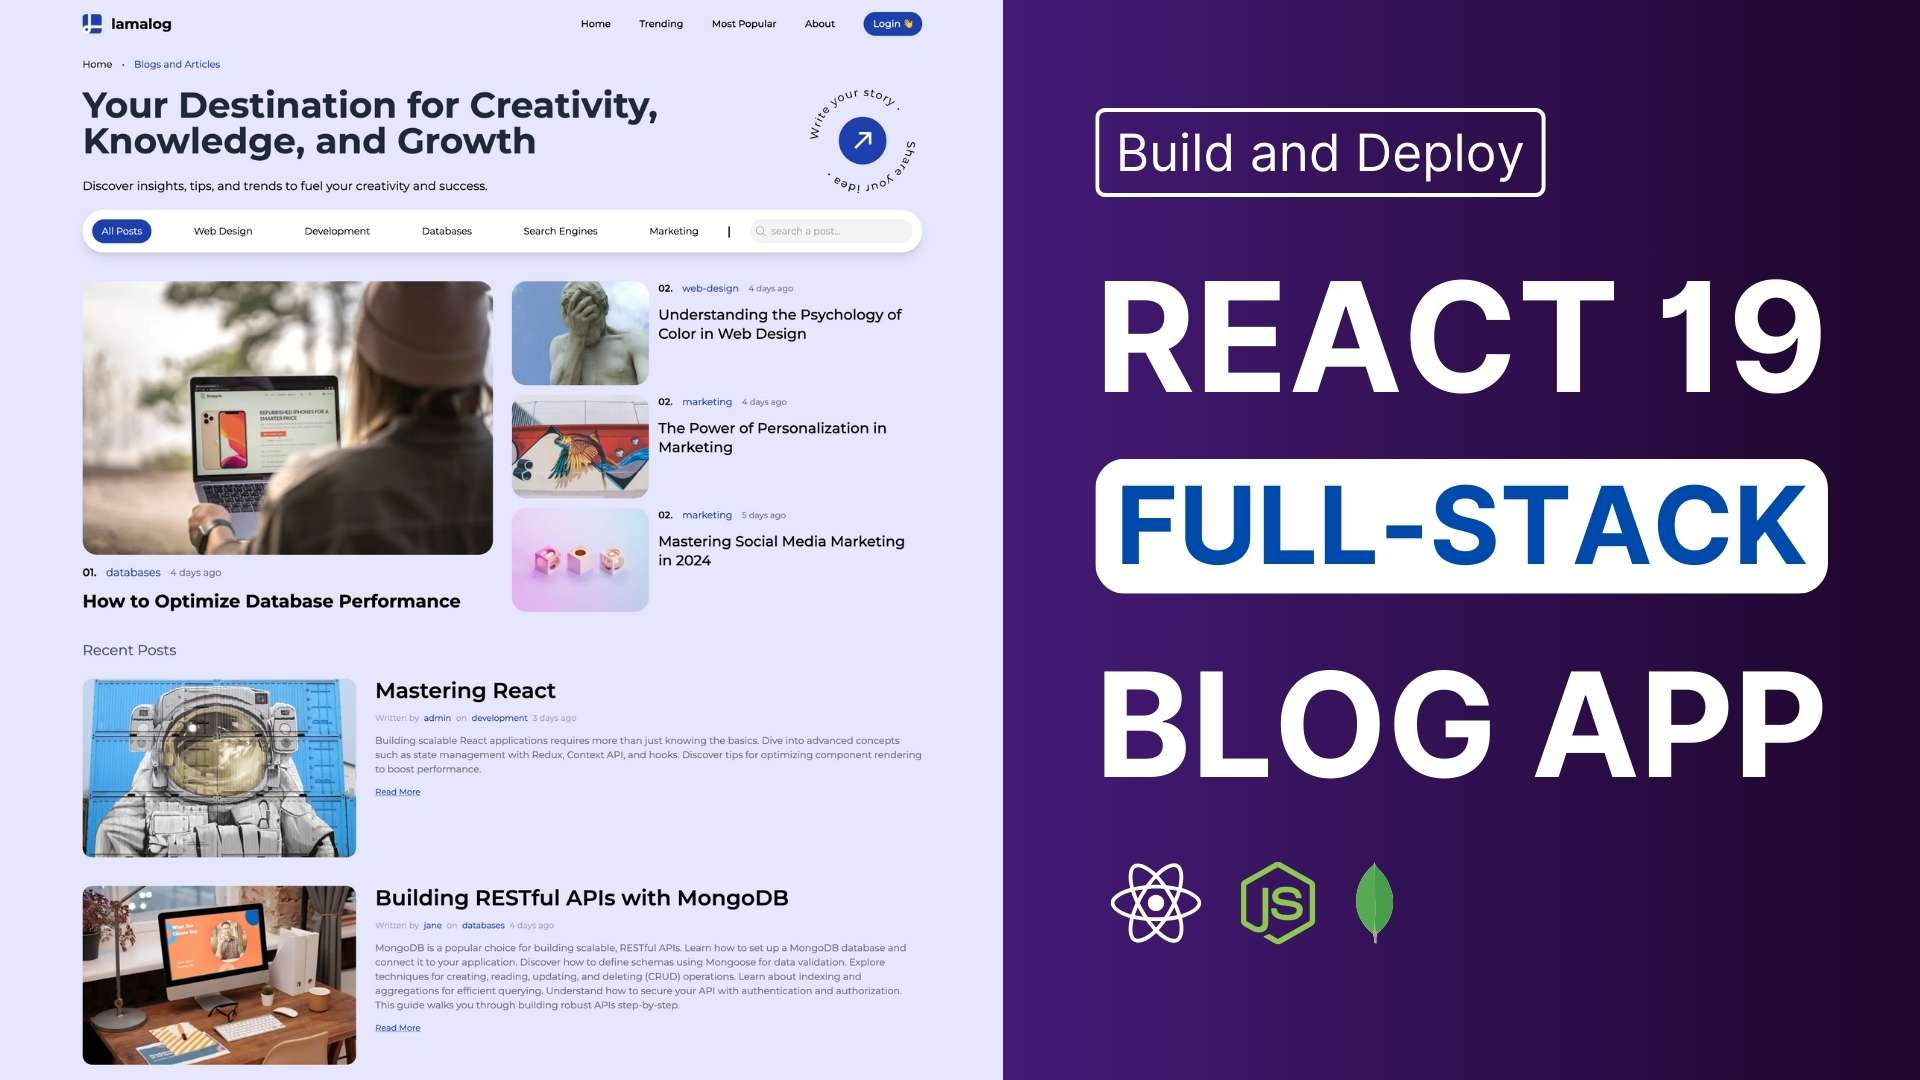
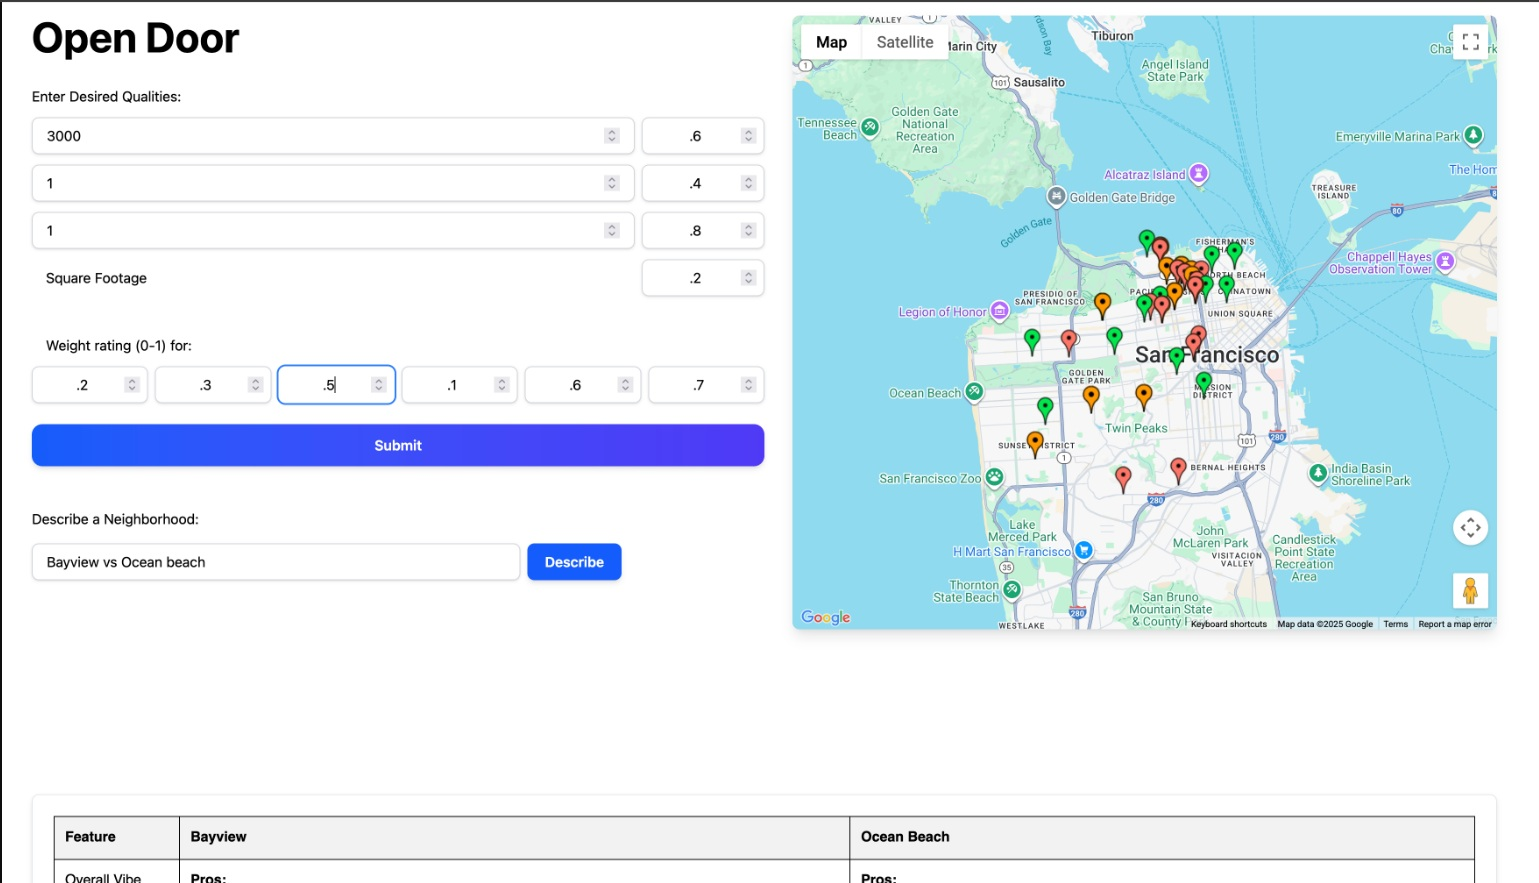
adding images from past projects

diff --git a/src/components/home/Home.jsx b/src/components/home/Home.jsx
@@ -1,5 +1,5 @@
 import {Canvas} from "@react-three/fiber"
-import "./hero.css";
+import "./home.css";
 import Speech from "./Speech"
 import {motion} from "motion/react"
 import Shape from "./Shape";
@@ -42,8 +42,8 @@ const followVariants = {
     },
 };
 
-const Hero = () => {
-    return ( <div className ="hero">
+const Home = () => {
+    return ( <div className ="home">
         <div className="hSection left">
             {/*TITLE*/}
             <motion.h1 
@@ -183,4 +183,4 @@ const Hero = () => {
     )
 }
 
-export default Hero 
+export default Home 

diff --git a/src/App.jsx b/src/App.jsx
@@ -1,6 +1,6 @@
-import Hero from "./components/hero/Hero";
+import Hero from "./components/home/Home";
 import Services from "./components/services/Services";
-import Portfolio from "./components/portfolio/Portfolio";
+import Portfolio from "./components/about/Portfolio";
 import Contact from "./components/contact/Contact";
 import Test3d from "./components/Test3d";
 

diff --git a/src/components/services/Services.jsx b/src/components/services/Services.jsx
@@ -2,7 +2,10 @@ import "./services.css";
 
 const Services = () => {
     return (
-        <div className = 'services'>Services</div>
+        <div className = 'services'>
+            <div className="sSection left"></div>
+            <div className="sSection right"></div>
+        </div>
     )
 }
 

diff --git a/src/components/home/home.css b/src/components/home/home.css
@@ -3,11 +3,10 @@
     flex:8;
 }
 
-.hero {
+.home {
     height: 100%;
     overflow: hidden;
     display: flex;
-    position: relative;
 }
  
 .bg {
@@ -271,7 +270,7 @@
 }
 
 @media (max-width: 768px) {
-  .hero {
+  .home {
     flex-direction: column;
   }
 

diff --git a/src/components/services/services.css b/src/components/services/services.css
@@ -1,0 +1,5 @@
+.services {
+    height: 100%;
+    overflow: hidden;
+    display: flex;
+}
